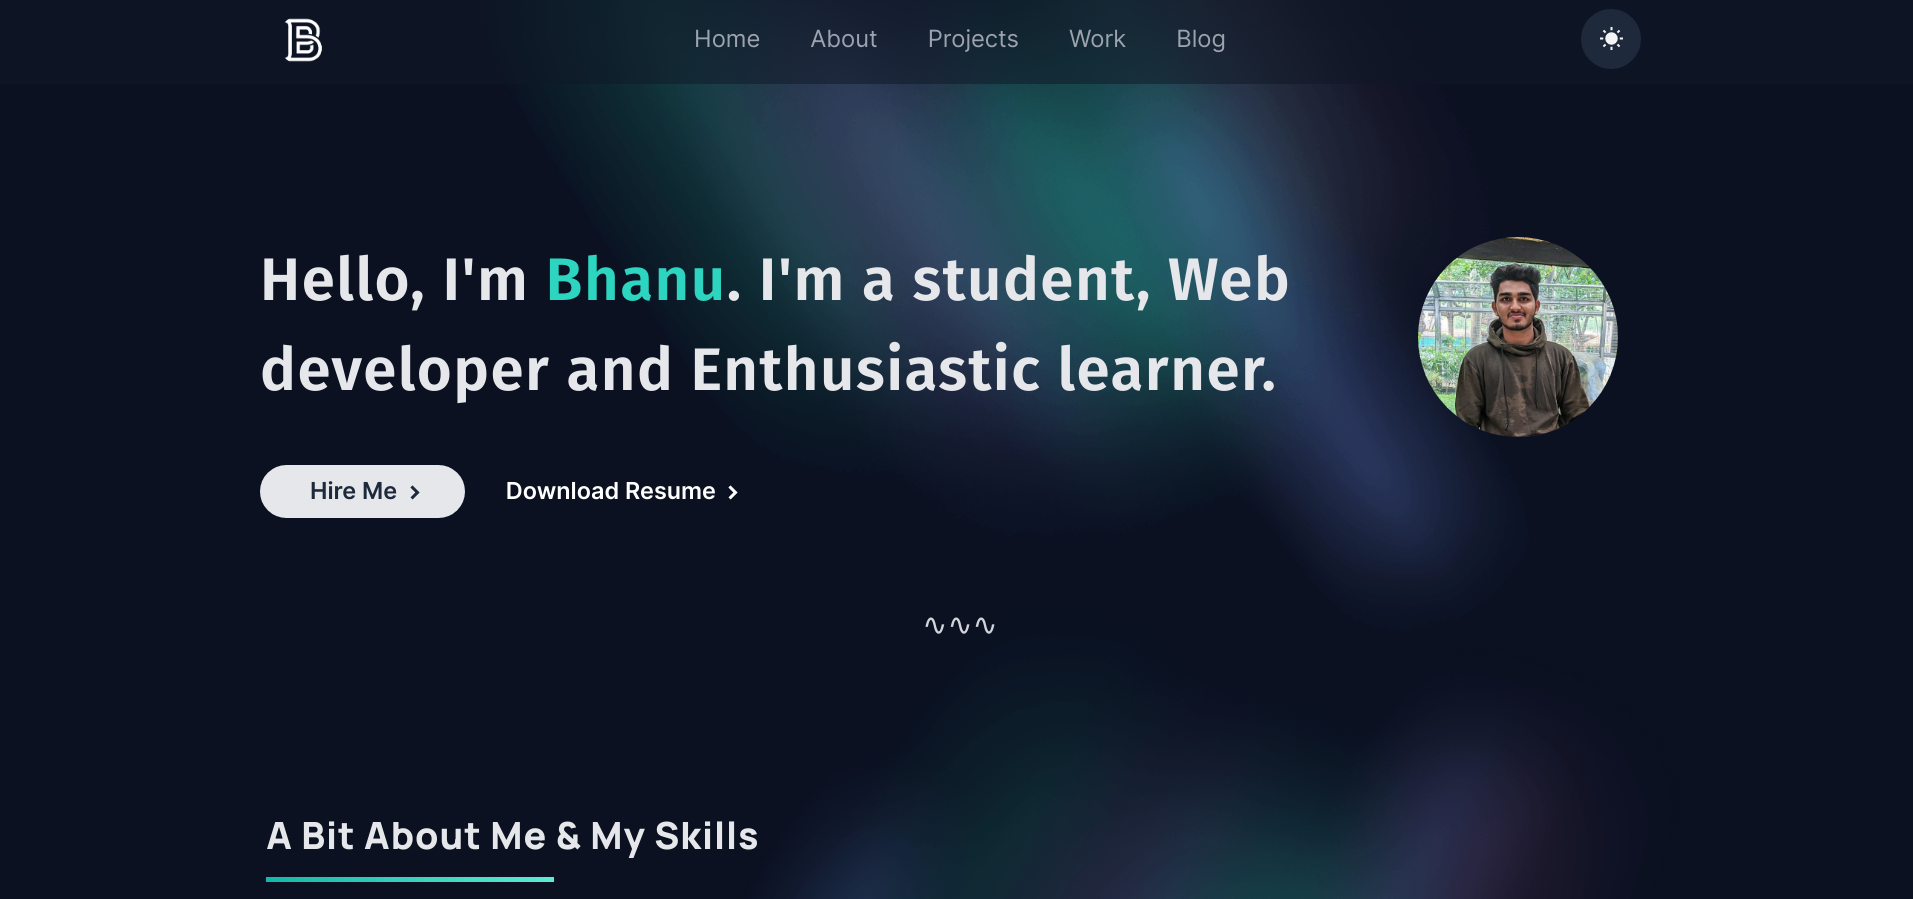
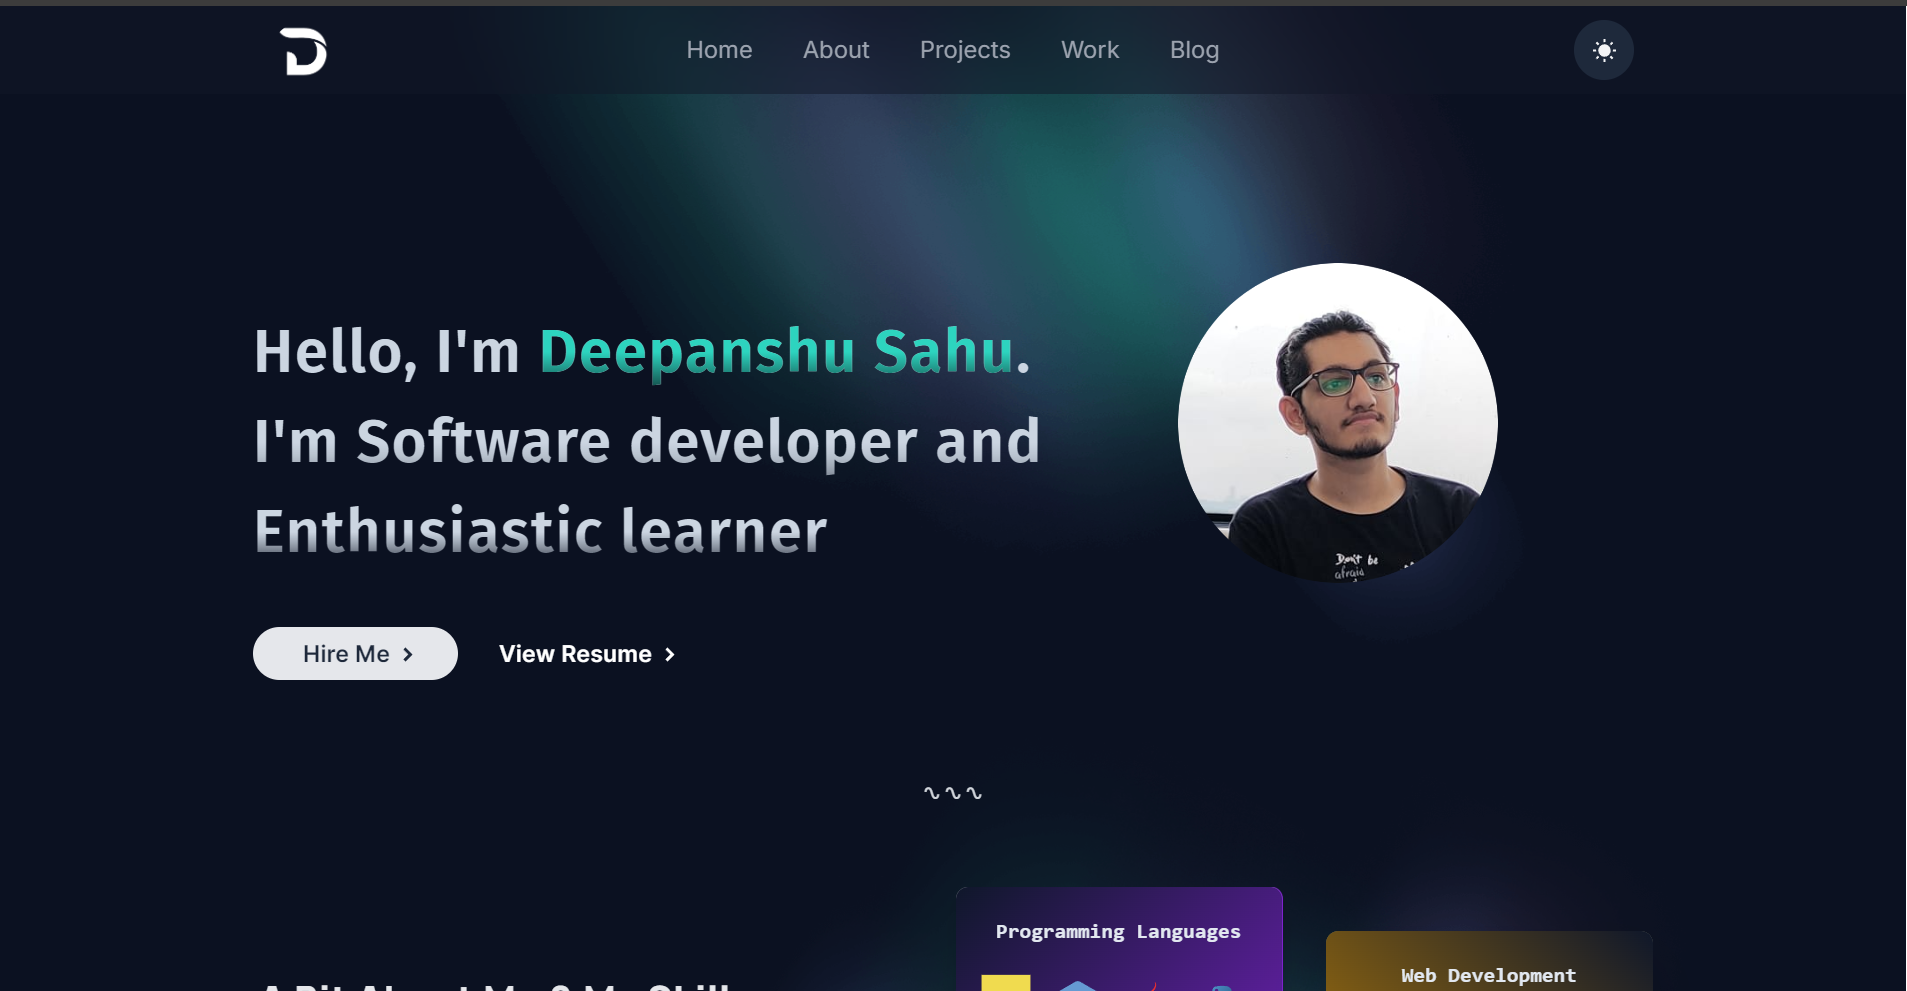
css fix

diff --git a/public/index.html b/public/index.html
@@ -4,23 +4,20 @@
 <head>
   <meta charset="utf-8" />
   <meta name="viewport" content="width=device-width, initial-scale=1" />
-  <meta name="description" content="Bhanu Sunka Portfolio" />
+  <meta name="description" content="Deepanshu Sahu Portfolio" />
   <title>Portfolio</title>
   <link crossorigin=”use-credentials” rel="manifest" href="../manifest.json">
 
-  <meta name="twitter:card" content="summary_large_image" />
-  <meta name="twitter:site" content="@SunkaBhanu" />
-  <meta name="twitter:title" content="Bhanu Sunka | Software Engineer" />
+  <meta name="twitter:title" content="Deepanshu Sahu | Software Engineer" />
   <meta name="twitter:description"
-    content="Hi 👋, I'm Bhanu Sunka an experienced Full Stack Developer proficient in ReactJS, Next.js for cutting-edge front-end solutions, and Node.js for robust back-end architecture. Passionate about test-driven development, continuous learning, and delivering high-performance, data-driven web applications." />
-  <meta name="twitter:image" content="https://ik.imagekit.io/bhanu1776/Portfolio/pp.jpg?updatedAt=1712083772144" />
+    content="Hi 👋, I'm Deepanshu Sahu an experienced Full Stack Developer proficient in ReactJS, Next.js for cutting-edge front-end solutions, and Node.js for robust back-end architecture. Passionate about test-driven development, continuous learning, and delivering high-performance, data-driven web applications." />
 
   <meta property="og:type" content="article" />
-  <meta property="og:title" content="Bhanu Sunka | Software Engineer" />
+  <meta property="og:title" content="Deepanshu Sahu | Software Engineer" />
   <meta property="og:description"
-    content="Hi 👋, I'm Bhanu Sunka an experienced Full Stack Developer proficient in ReactJS, Next.js for cutting-edge front-end solutions, and Node.js for robust back-end architecture. Passionate about test-driven development, continuous learning, and delivering high-performance, data-driven web applications." />
-  <meta property="og:url" content="https://portfolio-bhanu1776.vercel.app" />
-  <meta property="og:image" content="https://ik.imagekit.io/bhanu1776/Portfolio/pp.jpg?updatedAt=1712083772144" />
+    content="Hi 👋, I'm Deepanshu Sahu an experienced Full Stack Developer proficient in ReactJS, Next.js for cutting-edge front-end solutions, and Node.js and Django for robust back-end architecture. Passionate about test-driven development, continuous learning, and delivering high-performance, data-driven web applications." />
+  <meta property="og:url" content="https://portfolio2-lime-nine.vercel.app/" />
+  <meta property="og:image" content="https://ik.imagekit.io/dee777/Home_ss.png?updatedAt=1727035426885" />
 </head>
 
 <body className="dark">

diff --git a/src/components/Navbar.tsx b/src/components/Navbar.tsx
@@ -58,7 +58,7 @@ const Navbar = () => {
             <span className="sr-only">Logo</span>
             <span className="block">
               <img
-                alt="Bhanu Sunka"
+                alt="Deepanshu Sahu"
                 width="48"
                 height="48"
                 className="rounded-full invert dark:invert-0"

diff --git a/README.md b/README.md
@@ -1,3 +1,3 @@
 # Portfolio 🚀
 
-[![Portfolio Homepage](./src/Images/Home_ss.png "Click on the Image!")](https://portfolio-bhanu1776.vercel.app/)  
+[![Portfolio Homepage](./src/Images/Home_ss.png "Click on the Image!")](https://portfolio2-lime-nine.vercel.app)  
